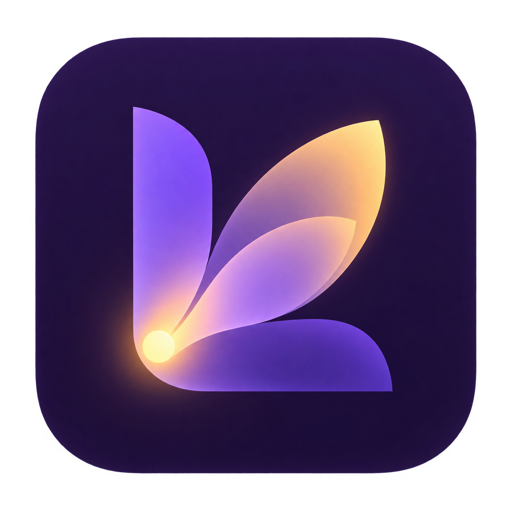
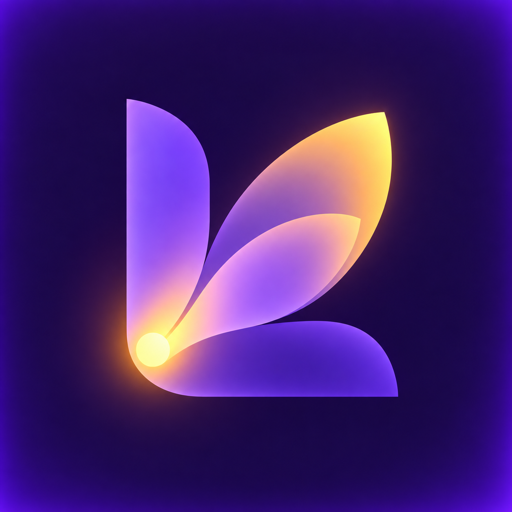
나툼 브랜드와 설치 아이콘을 적용했습니다

diff --git a/툴파챗/chatapp/static/index.html b/툴파챗/chatapp/static/index.html
@@ -3,22 +3,25 @@
 <head>
 <meta charset="utf-8">
 <meta name="viewport" content="width=device-width, initial-scale=1, viewport-fit=cover">
-<title>나투다</title>
+<title>나툼 · NaTum</title>
 <!-- ★ "카톡 링크 공유할 때 미리보기·앱 설명이 있으면 좋겠다" 요청(2026-08-26)
      — Open Graph/Twitter Card 태그. "/"는 인증 없이 누구나(카톡 미리보기
      크롤러 포함) 접근 가능한 공개 경로라 별도 서버 처리 없이 정적 HTML만으로
      충분하다. og:url은 넣지 않았다 — Cloudflare Quick Tunnel URL이 재시작마다
      바뀌어 이 파일에 고정 값을 넣을 수 없고, 크롤러는 보통 실제 접속한 주소를
      og:url 대신 써도 카드 렌더링에 문제 없다. -->
-<meta name="description" content="머릿속 생각을 현실의 형태로 드러내는 나만의 작업실 — 나투다">
+<meta name="description" content="머릿속 생각을 현실의 형태로 드러내는 나만의 작업실 — 나툼 NaTum">
 <meta property="og:type" content="website">
-<meta property="og:site_name" content="나투다">
-<meta property="og:title" content="나투다">
+<meta property="og:site_name" content="나툼 · NaTum">
+<meta property="og:title" content="나툼 · NaTum">
 <meta property="og:description" content="상상과 생각을 대화·학습·메모·도구의 형태로 현실에 구현하는 개인 작업실">
 <meta property="og:image" content="/static/og-image.png">
 <meta name="twitter:card" content="summary_large_image">
-<meta name="twitter:title" content="나투다">
+<meta name="twitter:title" content="나툼 · NaTum">
 <meta name="twitter:description" content="머릿속 생각을 현실의 형태로 드러내는 나만의 작업실">
+<meta name="application-name" content="나툼">
+<meta name="apple-mobile-web-app-title" content="나툼">
+<meta name="apple-mobile-web-app-capable" content="yes">
 <meta name="twitter:image" content="/static/og-image.png">
 <!-- ★ 2026-09-12: "손자병법 탭 누르면 화면 뜨는 시간이 오래 걸린다" 지적 —
      이 탭은 외부(chatgpt.site) 사이트를 iframe으로 불러오는데, 클릭한
@@ -27,13 +30,13 @@
      페이지 로드는 chat.js가 부팅 후 유휴 시간에 백그라운드로 미리 시작). -->
 <link rel="preconnect" href="https://sunzi-strategy-notes.pulpilisory.chatgpt.site" crossorigin>
 <link rel="dns-prefetch" href="https://sunzi-strategy-notes.pulpilisory.chatgpt.site">
-<link rel="stylesheet" href="/static/style.css?v=20260925-update-history-v1"><link rel="stylesheet" href="/static/icon-layout.css?v=20260925-unread-badge-v1">
+<link rel="stylesheet" href="/static/style.css?v=20260925-update-history-v1"><link rel="stylesheet" href="/static/icon-layout.css?v=20260926-natum-brand-v2">
 <!-- ★ "새 메시지 알림(웹 푸시)" 요청(2026-08-27) — iOS Safari는 PWA로
      "홈 화면에 추가"돼 있어야만 웹 푸시가 동작한다. manifest.json이 그
      설치 가능 상태를 만든다. -->
-<link rel="manifest" href="/manifest.json">
+<link rel="manifest" href="/manifest.json?v=20260926-natum-v2">
 <meta name="theme-color" content="#6d8fff">
-<link rel="apple-touch-icon" href="/static/app-icon-180.png">
+<link rel="apple-touch-icon" href="/static/app-icon-180.png?v=20260926-natum-v2">
 <link rel="stylesheet" href="/static/notice-toggle.css?v=20260925-v1">
 <link rel="stylesheet" href="/static/composer-compact.css?v=20260925-v2">
 <link rel="stylesheet" href="/static/chat-header-menu.css?v=20260925-v1">
@@ -68,7 +71,7 @@
   <div id="auth-view" class="hidden">
     <div class="auth-card">
       <div class="auth-brand-mark" aria-hidden="true">N</div>
-      <h1 class="auth-title">나투다</h1>
+      <h1 class="auth-title">나툼 <small>NaTum</small></h1>
       <p class="auth-subtitle">머릿속 생각을 현실의 형태로 드러내는 나만의 작업실</p>
       <div id="auth-tabs">
         <button type="button" class="auth-tab active" data-mode="login">로그인</button>
@@ -90,7 +93,7 @@
 
   <!-- 개인 시스템 전체의 시작점. 긴 친구/방 목록은 각각 별도 화면으로 분리한다. -->
   <div id="home-view" class="hidden">
-    <header class="portal-header"><a class="portal-brand" href="#home"><span>N</span><b>나투다</b></a><div class="portal-header-actions"><button id="portal-layout-btn" type="button" class="subtle-button portal-layout-button" aria-label="목록 보기로 전환">☰ 목록</button><button id="portal-notifications-btn" type="button" class="portal-notification-button" aria-label="알림 보기" aria-expanded="false"><svg aria-hidden="true"><use href="#icon-bell"/></svg><span id="portal-notification-badge" class="notification-count hidden"></span></button><button id="portal-account-btn" type="button" class="subtle-button">내 프로필</button></div></header>
+    <header class="portal-header"><a class="portal-brand" href="#home"><span>N</span><b>나툼 <small>NaTum</small></b></a><div class="portal-header-actions"><button id="portal-layout-btn" type="button" class="subtle-button portal-layout-button" aria-label="목록 보기로 전환">☰ 목록</button><button id="portal-notifications-btn" type="button" class="portal-notification-button" aria-label="알림 보기" aria-expanded="false"><svg aria-hidden="true"><use href="#icon-bell"/></svg><span id="portal-notification-badge" class="notification-count hidden"></span></button><button id="portal-account-btn" type="button" class="subtle-button">내 프로필</button></div></header>
     <aside id="portal-notification-center" class="notification-center hidden" aria-label="알림"><div class="notification-center-head"><div><small>NOTIFICATIONS</small><h2>알림</h2></div><button id="portal-notification-close" type="button" aria-label="알림 닫기"><svg aria-hidden="true"><use href="#icon-close"/></svg></button></div><div id="portal-notification-list" class="notification-list"></div></aside>
     <main class="portal-main">
       <section class="portal-services icon-view" aria-label="시스템 바로가기">
@@ -108,7 +111,7 @@
         <a class="portal-card memo" href="/memo/"><span class="portal-card-mark">✦</span><div><small>CONNECTED NOTES</small><h2>메모 시스템</h2><p>채팅의 유용한 메시지를 저장하고 생각을 가지처럼 확장</p></div><i>→</i></a>
       </section>
       <section id="portal-update-history" class="portal-update-history" aria-labelledby="portal-update-title">
-        <div class="portal-update-head"><div><small>SYSTEM HISTORY</small><h2 id="portal-update-title">나투다 업데이트 기록</h2></div><div class="portal-update-head-actions"><span id="portal-update-count"></span><button id="portal-update-refresh" type="button" aria-label="업데이트 기록 새로고침">↻ 새로고침</button><button id="portal-update-toggle" type="button" aria-expanded="true" aria-controls="portal-update-list"><i aria-hidden="true">⌃</i><span class="sr-only">접기 또는 펼치기</span></button></div></div>
+        <div class="portal-update-head"><div><small>SYSTEM HISTORY</small><h2 id="portal-update-title">나툼 업데이트 기록</h2></div><div class="portal-update-head-actions"><span id="portal-update-count"></span><button id="portal-update-refresh" type="button" aria-label="업데이트 기록 새로고침">↻ 새로고침</button><button id="portal-update-toggle" type="button" aria-expanded="true" aria-controls="portal-update-list"><i aria-hidden="true">⌃</i><span class="sr-only">접기 또는 펼치기</span></button></div></div>
         <div id="portal-update-list" class="portal-update-list"><p>업데이트 기록을 불러오는 중입니다.</p></div>
       </section>
     </main>
@@ -119,8 +122,8 @@
     <div class="pwa-install-card">
       <button id="pwa-install-close" class="pwa-install-close" type="button" aria-label="설치 안내 닫기">×</button>
       <div class="pwa-install-icon" aria-hidden="true">N</div>
-      <p class="pwa-install-kicker">NATUDA WORKSPACE</p>
-      <h2 id="pwa-install-title">홈 화면에 나투다를 설치할까요?</h2>
+      <p class="pwa-install-kicker">NATUM WORKSPACE</p>
+      <h2 id="pwa-install-title">홈 화면에 나툼을 설치할까요?</h2>
       <p id="pwa-install-description">브라우저 탭 없이 앱처럼 바로 열고, 새 메시지 알림도 받을 수 있어요.</p>
       <div id="pwa-install-steps" class="pwa-install-steps hidden"></div>
       <button id="pwa-install-action" class="pwa-install-action" type="button">홈 화면에 설치</button>
@@ -136,7 +139,7 @@
   <!-- 방 목록 (카카오톡 채팅 목록처럼) -->
   <div id="room-list-view" class="hidden">
     <header>
-      <h1><button id="home-brand-btn" type="button" class="header-brand-mark" aria-label="나투다 홈으로">N</button><span id="main-view-title">친구</span></h1>
+      <h1><button id="home-brand-btn" type="button" class="header-brand-mark" aria-label="나툼 홈으로">N</button><span id="main-view-title">친구</span></h1>
       <button id="notify-btn" type="button" aria-label="새 메시지 알림 받기" class="icon-button hidden"><svg><use href="#icon-bell"/></svg></button>
       <div id="account-chip" class="hidden">
         <button id="account-name-btn" type="button" aria-label="내 프로필 수정">
@@ -345,6 +348,6 @@
   </div>
 
   <link rel="stylesheet" href="/static/style.css?v=20260925-message-fold-v2">
-  <script src="/static/chat.js?v=20260925-natuda-brand-v3"></script>
+  <script src="/static/chat.js?v=20260926-natum-brand-v4"></script>
 </body>
 </html>

diff --git a/툴파챗/chatapp/static/chat.js b/툴파챗/chatapp/static/chat.js
@@ -709,7 +709,7 @@ async function subscribeToPush() {
     alert("서버에 웹 푸시가 아직 설정되지 않았습니다.");
     return;
   }
-  const reg = await navigator.serviceWorker.register("/static/sw.js?v=20260925-natuda-brand-v1", { updateViaCache: "none" });
+  const reg = await navigator.serviceWorker.register("/static/sw.js?v=20260926-natum-brand-v2", { updateViaCache: "none" });
   const sub = await reg.pushManager.subscribe({
     userVisibleOnly: true,
     applicationServerKey: _urlBase64ToUint8Array(public_key),
@@ -2122,7 +2122,7 @@ async function loadSystemUpdateHistory({manual = false} = {}) {
       time.dateTime = item.created_at;
       time.textContent = Number.isNaN(created.getTime()) ? item.created_at : new Intl.DateTimeFormat("ko-KR", {month:"short",day:"numeric",hour:"2-digit",minute:"2-digit"}).format(created);
       copy.className = "portal-update-copy";
-      system.textContent = item.system || "나투다";
+      system.textContent = item.system || "나툼";
       title.textContent = item.title || "업데이트";
       body.textContent = item.body || "";
       arrow.textContent = "→";
@@ -4526,7 +4526,7 @@ window.addEventListener("hashchange", route);
 // 알림 허용 여부와 관계없이 서비스 워커를 설치한다. 그래야 서버 재시작 중
 // PWA를 다시 열어도 흰 화면 대신 정비 안내를 표시할 수 있다.
 if ("serviceWorker" in navigator) {
-  navigator.serviceWorker.register("/static/sw.js?v=20260925-natuda-brand-v1", { updateViaCache: "none" }).catch((error) => console.error("service worker", error));
+  navigator.serviceWorker.register("/static/sw.js?v=20260926-natum-brand-v2", { updateViaCache: "none" }).catch((error) => console.error("service worker", error));
 }
 
 initAuth().then((ok) => {

diff --git a/툴파챗/chatapp/static/offline.html b/툴파챗/chatapp/static/offline.html
@@ -4,7 +4,7 @@
   <meta charset="utf-8">
   <meta name="viewport" content="width=device-width,initial-scale=1,viewport-fit=cover">
   <meta name="theme-color" content="#17141f">
-  <title>서버 정비 중 · 나투다</title>
+  <title>서버 정비 중 · 나툼</title>
   <style>
     :root{color-scheme:light dark;font-family:-apple-system,BlinkMacSystemFont,"Apple SD Gothic Neo",sans-serif;background:#f6f2ff;color:#241c35}*{box-sizing:border-box}body{min-height:100dvh;margin:0;padding:24px;display:grid;place-items:center;background:radial-gradient(circle at 20% 10%,#dbcfff 0,transparent 38%),#f6f2ff}.card{width:min(440px,100%);padding:34px 26px;text-align:center;border:1px solid #d9cfee;border-radius:28px;background:#fffffff0;box-shadow:0 25px 70px #49387826}.mark{width:62px;height:62px;margin:auto;display:grid;place-items:center;border-radius:20px;background:linear-gradient(145deg,#8468db,#6546bf);color:white;font-size:28px;font-weight:850}small{display:block;margin-top:24px;color:#765bd0;font-weight:850;letter-spacing:.14em}h1{margin:10px 0 12px;font-size:28px}p{margin:0;color:#766d82;line-height:1.7;font-size:14px}button{width:100%;min-height:50px;margin-top:24px;border:0;border-radius:15px;background:#6d50c5;color:white;font-size:15px;font-weight:800}.state{margin-top:14px;font-size:12px;color:#91899b}@media(prefers-color-scheme:dark){:root{background:#15121b;color:#f5f0ff}body{background:radial-gradient(circle at 20% 10%,#392d59 0,transparent 38%),#15121b}.card{background:#211c2aee;border-color:#403650}.state,p{color:#aaa1b5}}
   </style>

diff --git a/툴파챗/chatapp/static/icon-layout.css b/툴파챗/chatapp/static/icon-layout.css
@@ -5,3 +5,4 @@
 .portal-services.icon-view .portal-card div{min-width:0;width:100%}.portal-services.icon-view .portal-card small,.portal-services.icon-view .portal-card p,.portal-services.icon-view .portal-card>i{display:none}
 .portal-services.icon-view .portal-card h2{overflow:hidden;margin:0;font-size:13px;line-height:1.3;text-overflow:ellipsis;white-space:nowrap}.portal-services.icon-view .portal-card:hover{transform:translateY(-2px)}
 @media(max-width:650px){.portal-services.icon-view{grid-template-columns:repeat(3,minmax(0,1fr));gap:8px}.portal-services.icon-view .portal-card{min-height:108px;padding:12px 5px;border-radius:17px}.portal-services.icon-view .portal-card-mark{width:48px;height:48px;border-radius:15px;font-size:19px}.portal-services.icon-view .portal-card h2{font-size:11px}}
+.portal-brand b{display:flex;align-items:baseline;gap:6px}.portal-brand b small,.auth-title small{color:var(--muted);font-size:.52em;font-weight:750;letter-spacing:.04em}

diff --git a/툴파챗/chatapp/static/sw.js b/툴파챗/chatapp/static/sw.js
@@ -1,4 +1,4 @@
-const CACHE_NAME = "natuda-shell-20260925-brand-v1";
+const CACHE_NAME = "natum-shell-20260926-brand-v2";
 const OFFLINE_URL = "/static/offline.html";
 
 // 서버 재시작 중에도 설치된 웹앱이 흰 화면만 보이지 않도록 정비 안내 화면은
@@ -27,9 +27,9 @@ self.addEventListener("push", (event) => {
   try {
     data = event.data ? event.data.json() : {};
   } catch (e) {
-    data = { title: "나투다", body: event.data ? event.data.text() : "" };
+    data = { title: "나툼", body: event.data ? event.data.text() : "" };
   }
-  const title = data.title || "나투다";
+  const title = data.title || "나툼";
   event.waitUntil(
     self.registration.showNotification(title, {
       body: data.body || "",

diff --git a/툴파챗/chatapp/server/app.py b/툴파챗/chatapp/server/app.py
@@ -160,7 +160,7 @@ SYSTEM_UPDATE_NOTIFICATIONS = (
     {
         "id": "system:2026-09-09:notification-center",
         "title": "통합 알림 센터가 생겼습니다",
-        "body": "시스템 업데이트와 읽지 않은 툴파챗 메시지를 나투다에서 한곳에 모아 확인할 수 있습니다.",
+        "body": "시스템 업데이트와 읽지 않은 툴파챗 메시지를 나툼에서 한곳에 모아 확인할 수 있습니다.",
         "url": "/#home", "created_at": "2026-09-09T00:00:00+09:00",
     },
     {
@@ -180,7 +180,7 @@ SYSTEM_UPDATE_NOTIFICATIONS = (
 # 알림 읽음 여부와 무관하게 시스템 화면에서 계속 볼 수 있는 제품 변경 이력.
 # 사용자에게 의미 있는 완료 단위만 기록하고 최신순으로 반환한다.
 WEBAPP_UPDATE_HISTORY = (
-    {"created_at": "2026-09-25T11:25:00+09:00", "system": "나투다", "title": "전체 업데이트 타임라인", "body": "시스템 화면에서 Shift Alarm뿐 아니라 웹앱 전체 변경 내용을 최신순으로 확인할 수 있습니다.", "url": "/#systems"},
+    {"created_at": "2026-09-25T11:25:00+09:00", "system": "나툼", "title": "전체 업데이트 타임라인", "body": "시스템 화면에서 Shift Alarm뿐 아니라 웹앱 전체 변경 내용을 최신순으로 확인할 수 있습니다.", "url": "/#systems"},
     {"created_at": "2026-09-25T11:10:00+09:00", "system": "Shift Alarm", "title": "아이폰·Apple Watch 알림", "body": "맥 알림을 웹 푸시로 전달하고 아이폰·워치 알림 구독 버튼과 진동 요청을 추가했습니다.", "url": "/shift-alarm/"},
     {"created_at": "2026-09-25T10:57:00+09:00", "system": "Shift Alarm", "title": "일일 루틴 알림 시각 학습", "body": "같은 근무 유형의 최근 전부 체크 완료 시각을 학습해 10분 전에 알립니다.", "url": "/shift-alarm/"},
     {"created_at": "2026-09-25T10:35:00+09:00", "system": "Shift Alarm", "title": "리마인더 시각 자동 학습", "body": "모든 리마인더 체크 시각을 기록하고 다음 같은 근무 주기의 알림 시각에 반영합니다.", "url": "/shift-alarm/"},
@@ -191,7 +191,7 @@ WEBAPP_UPDATE_HISTORY = (
     {"created_at": "2026-09-25T08:50:00+09:00", "system": "Shift Alarm", "title": "생활 리듬 그래프", "body": "기상·루틴 완료·리마인더 체크 시간을 기간별 그래프로 볼 수 있게 했습니다.", "url": "/shift-alarm/"},
     {"created_at": "2026-09-24T12:10:00+09:00", "system": "일본어 학습", "title": "미연시 진행 상태와 학습 표현", "body": "제작 단계별 진행률·중단 이유·재실행과 장면 대사 기반 학습 표현을 보강했습니다.", "url": "/epub/"},
     {"created_at": "2026-09-24T11:56:00+09:00", "system": "Shift Alarm", "title": "근무표와 오늘 근무 상세", "body": "오늘 근무 시간과 월간 D·S·G·휴무 근무표, 날짜별 리마인더를 함께 표시합니다.", "url": "/shift-alarm/"},
-    {"created_at": "2026-09-09T00:00:00+09:00", "system": "나투다", "title": "통합 알림 센터", "body": "시스템 업데이트와 읽지 않은 메시지를 한곳에서 확인할 수 있게 했습니다.", "url": "/#home"},
+    {"created_at": "2026-09-09T00:00:00+09:00", "system": "나툼", "title": "통합 알림 센터", "body": "시스템 업데이트와 읽지 않은 메시지를 한곳에서 확인할 수 있게 했습니다.", "url": "/#home"},
     {"created_at": "2026-09-07T18:00:00+09:00", "system": "일본어 학습", "title": "EPUB 리더 개선", "body": "세로 스크롤·자동 읽기·현재 구절 강조와 후리가나 표시를 개선했습니다.", "url": "/epub/"},
 )
 
@@ -238,7 +238,7 @@ def _git_update_history(limit=80):
         elif "이직시스템" in joined:
             system, url = "이직 시스템", "/career/"
         else:
-            system, url = "나투다", "/#systems"
+            system, url = "나툼", "/#systems"
         items.append({
             "id": f"git:{commit_hash}", "created_at": created_at,
             "system": system, "title": title,
@@ -423,7 +423,7 @@ class NoCacheStaticMiddleware(BaseHTTPMiddleware):
         return response
 
 
-app = FastAPI(title="나투다")
+app = FastAPI(title="나툼 · NaTum")
 app.add_middleware(SessionAuthMiddleware)
 app.add_middleware(NoCacheStaticMiddleware)
 init_db()
